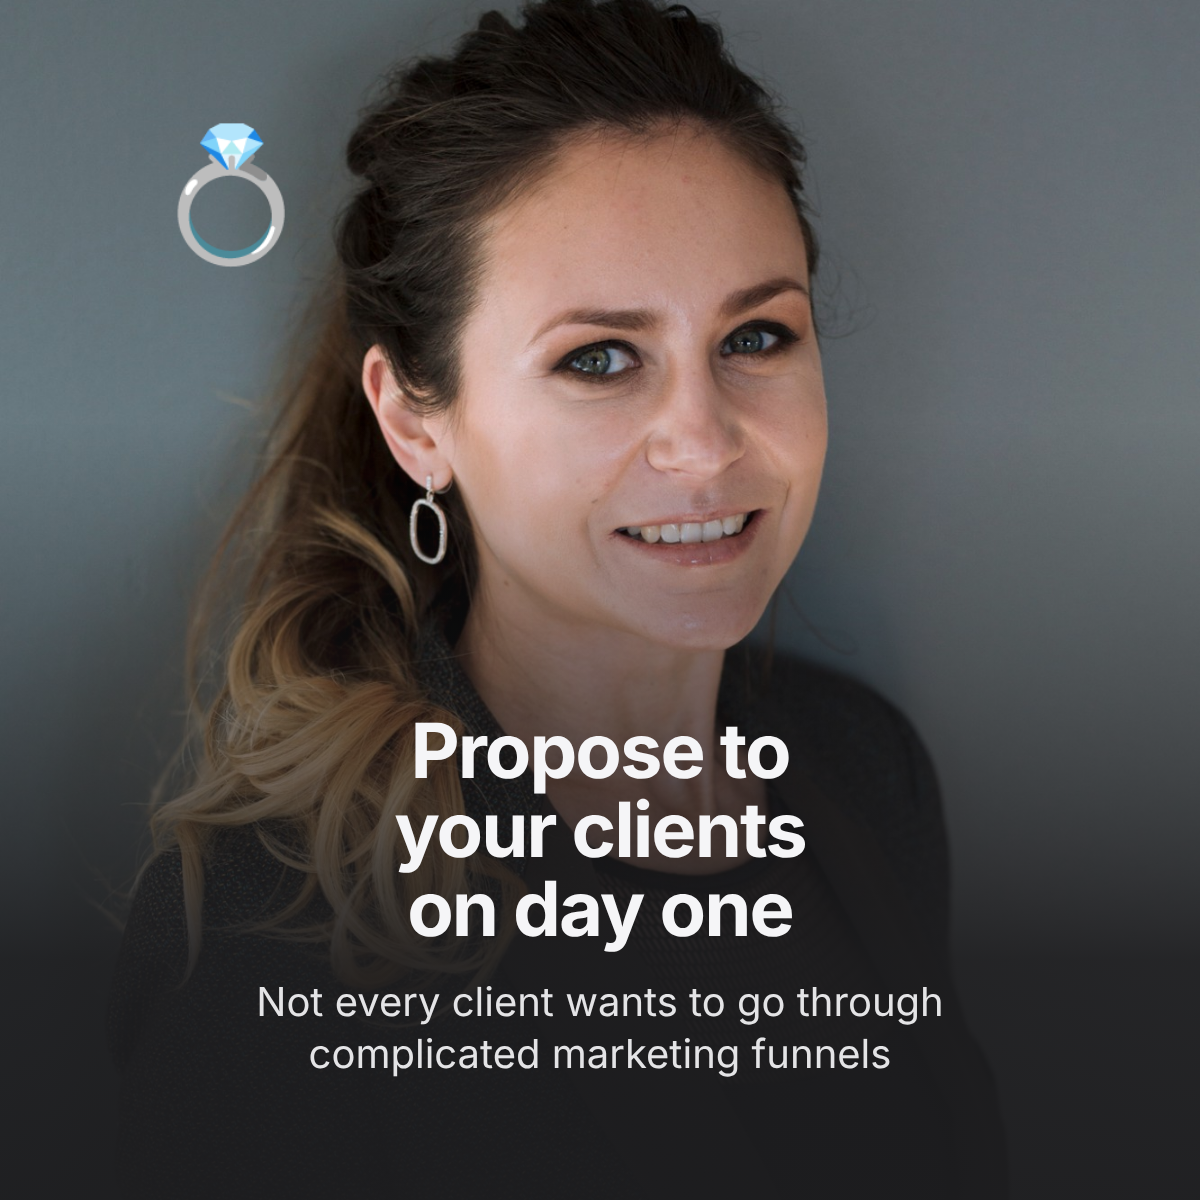
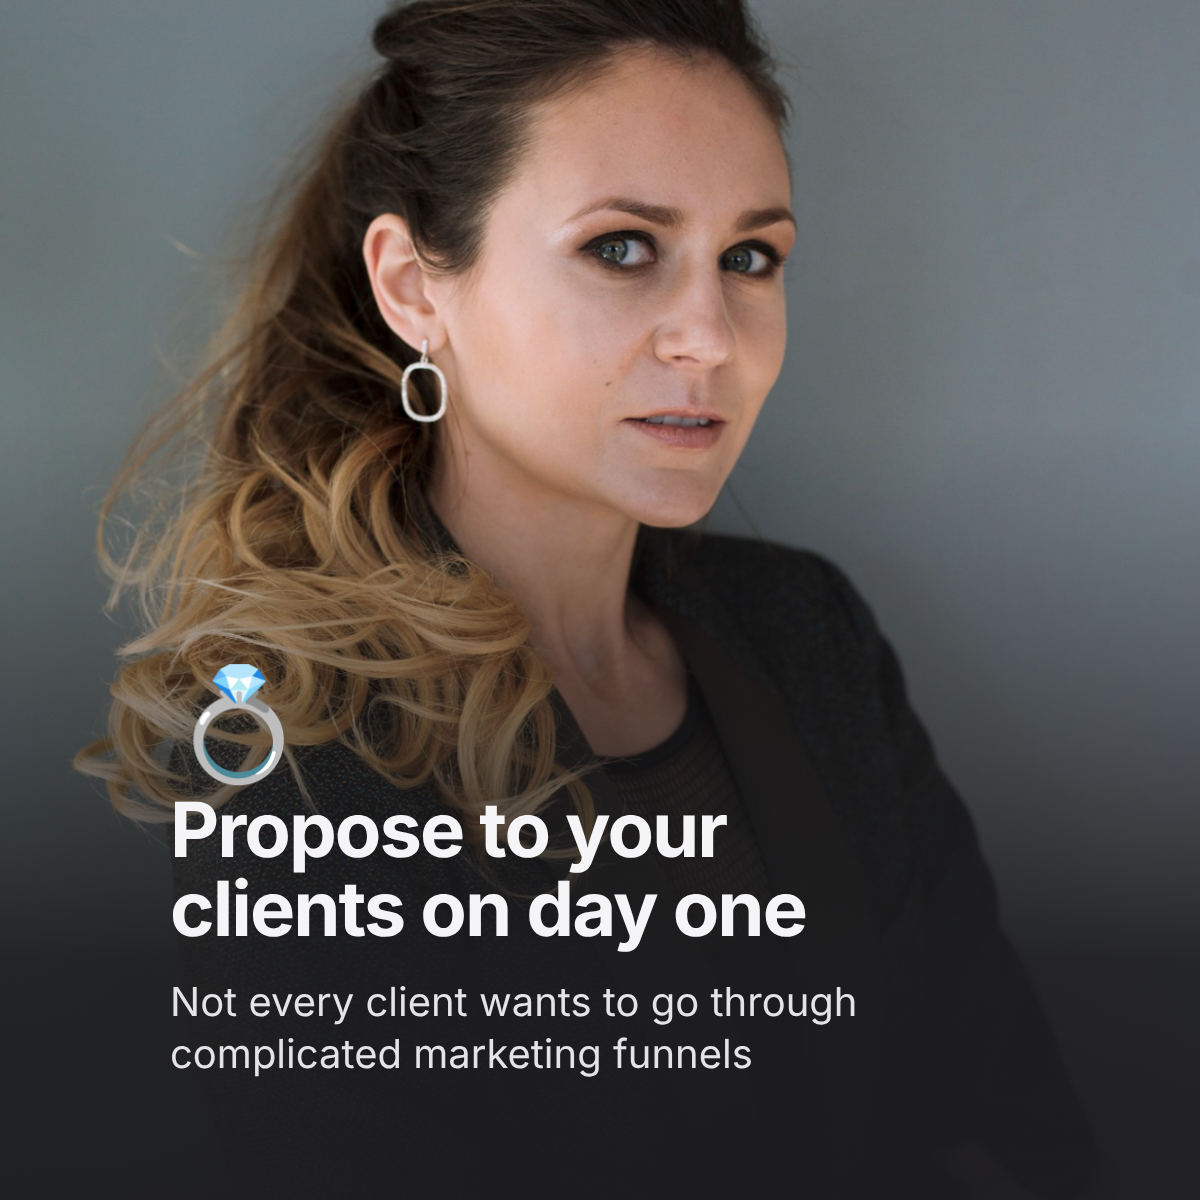
LinkedIn cover: full-length photo, emoji above left-aligned headline
Claude-Session: https://claude.ai/code/session_01BfJAaEZY2EfD7nu2Y1Q1pB

diff --git a/brand/zimols/render.js b/brand/zimols/render.js
@@ -58,9 +58,10 @@ function slide(s) {
     const fade = s.textTop ? ';-webkit-mask-image:linear-gradient(to bottom,transparent 0%,#000 30%);mask-image:linear-gradient(to bottom,transparent 0%,#000 30%)' : '';
     const box = s.photoBox;
     if (s.centerBottom) {
-      return `<div class="s bg-ink"><img class="photo" style="object-position:50% 18%" src="${img}"><div style="position:absolute;inset:0;background:linear-gradient(to bottom,rgba(29,29,31,0) 35%,rgba(29,29,31,.92) 80%,rgba(29,29,31,.97) 100%)"></div>
-      ${s.emoji ? `<div style="position:absolute;left:150px;top:130px;font-family:'Noto Color Emoji',sans-serif;font-size:130px;line-height:1">${s.emoji}</div>` : ''}
-      <div class="pad" style="left:170px!important;right:170px!important;top:auto!important;bottom:120px!important;text-align:center"><div class="display" style="font-size:${s.headlineSize || 76}px;text-align:center">${s.headline.join('<br>')}</div><div class="sub" style="margin-top:28px;font-size:40px;text-align:center">${s.sub}</div></div></div>`;
+      const L = s.leftText;
+      const emo = s.emoji ? `<div style="font-family:'Noto Color Emoji',sans-serif;font-size:${L ? 110 : 150}px;line-height:1;margin-bottom:${L ? 10 : 24}px">${s.emoji}</div>` : '';
+      return `<div class="s bg-ink"><img class="photo" style="object-position:50% ${L ? 50 : 18}%" src="${img}"><div style="position:absolute;inset:0;background:linear-gradient(to bottom,rgba(29,29,31,0) 35%,rgba(29,29,31,.92) 80%,rgba(29,29,31,.97) 100%)"></div>
+      <div class="pad" style="left:170px!important;right:170px!important;top:auto!important;bottom:120px!important;text-align:${L ? 'left' : 'center'}">${emo}<div class="display" style="font-size:${s.headlineSize || 76}px;text-align:${L ? 'left' : 'center'}">${s.headline.join('<br>')}</div><div class="sub" style="margin-top:28px;font-size:40px;text-align:${L ? 'left' : 'center'}">${s.sub}</div></div></div>`;
     }
     const imgStyle = box ? ` style="left:${box.left}px;top:${box.top || 0}px;width:${box.width}px;height:${box.height}px;object-fit:cover;-webkit-mask-image:linear-gradient(to right,transparent 0%,#000 30%);mask-image:linear-gradient(to right,transparent 0%,#000 30%)"` : (sh ? ` style="top:${sh}px;height:${F.h - sh}px${fade}"` : '');
     const top = (s.textTop && !s.photoBox) ? `<div class="shade" style="background:linear-gradient(to bottom,rgba(29,29,31,.95) 0%,rgba(29,29,31,0) 45%)"></div>` : '<div class="shade"></div>';
